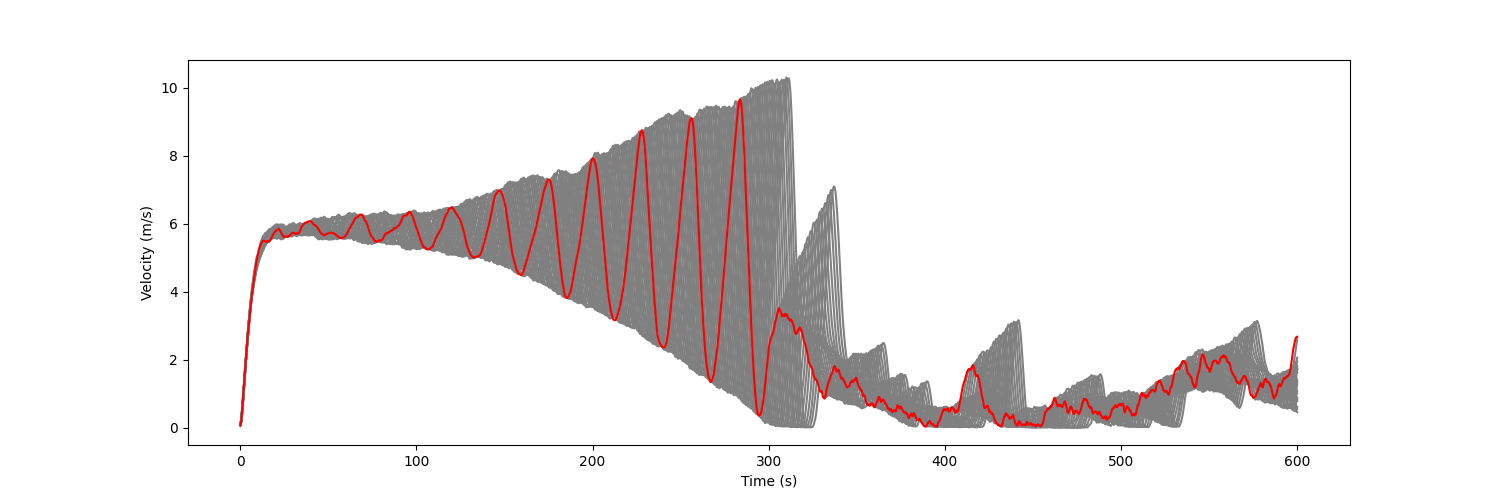
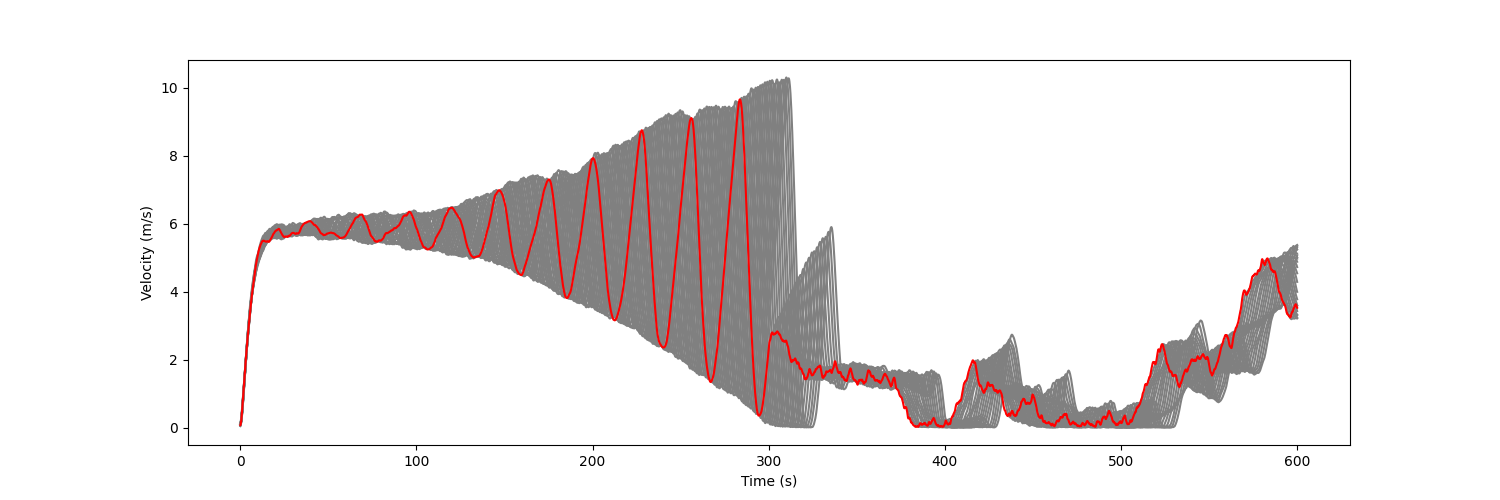
push code

Changed region(s): [[0.4907, 0.39, 0.8893, 0.87]]

diff --git a/main.py b/main.py
@@ -17,7 +17,7 @@ def main():
         scripts.train_dqn.evaluate("/home/vamsi/Documents/GitHub/RingRoad-RL/Models/DQN/DQNTrainer_2022-03-03_19-28-07/DQNTrainer_ringroad-v1_f4621_00000_0_2022-03-03_19-28-08/checkpoint_000488/checkpoint-488")
 
     elif args.type == "eval_ppo":
-        scripts.train_ppo.evaluate("/home/vamsi/Documents/GitHub/RingRoad-RL/Models/PPO/SingleAgent/PPOTrainer_2022-05-03_07-45-58/PPOTrainer_ringroad-v1_f8897_00000_0_2022-05-03_07-45-58/checkpoint_000250/checkpoint-250")
+        scripts.train_ppo.evaluate("/home/vamsi/Documents/GitHub/RingRoad-RL/Models/PPO/SingleAgent/PPOTrainer_2022-05-03_13-16-01/PPOTrainer_ringroad-v1_144b0_00000_0_2022-05-03_13-16-02/checkpoint_000250/checkpoint-250")
 
     elif args.type == "eval_idm":
         scripts.evaluate_idm.evaluate()
